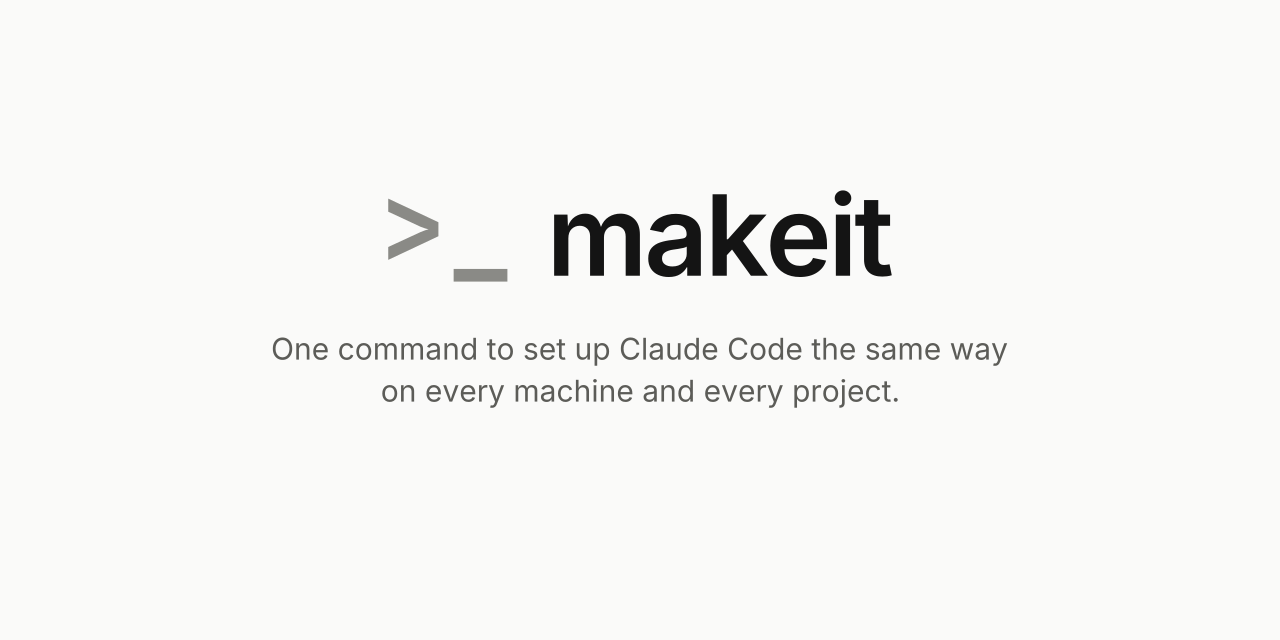
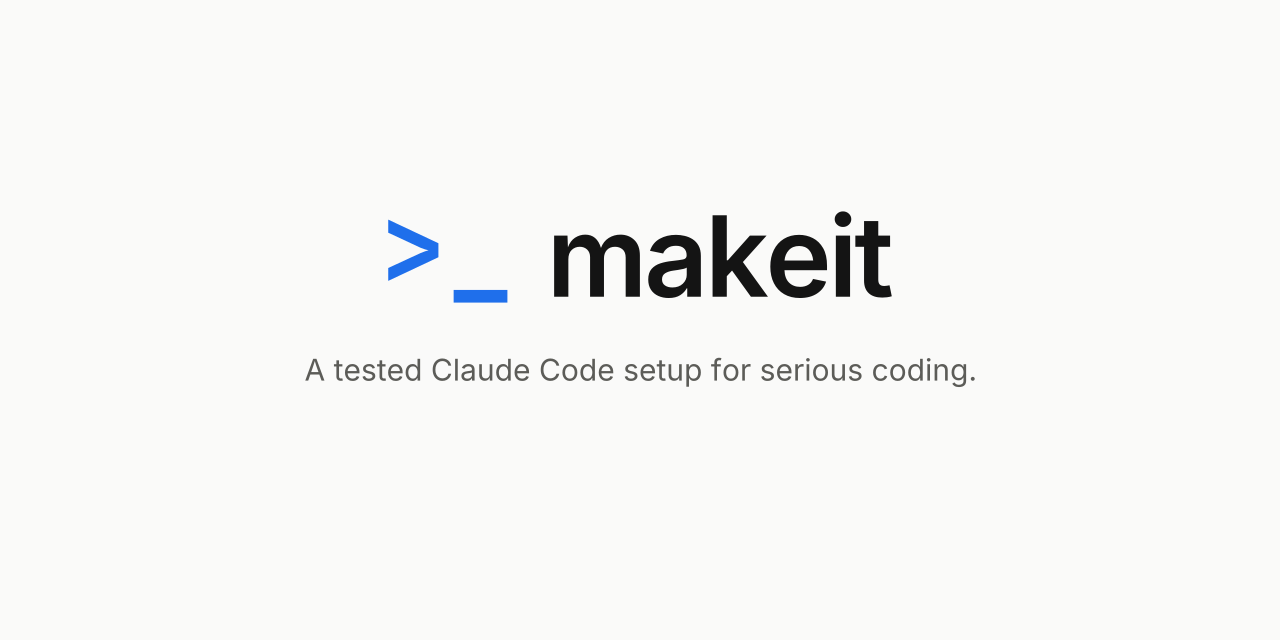
Pitch makeit as a tested setup and colour the prompt mark blue
The README leads with "A tested Claude Code setup for serious coding." and says
only what the records support: the core plugins were each tested against Claude
Code without them and against their alternatives, and the ones that lost were
dropped. docs/included.md gets a "tested" column per plugin, "not yet" for the
security-audit and language-server plugins. The >_ mark is #1f6feb on light and
#4d8ef7 on dark in both logos, the mark and the social preview.

Changed region(s): [[0.2812, 0.2812, 0.7188, 0.5], [0.2188, 0.5312, 0.7812, 0.625]]

diff --git a/docs/included.md b/docs/included.md
@@ -49,29 +49,31 @@ at a pinned commit. setup copies it to `~/.makeit/catalog`, adds it as a marketp
 Anthropic's `claude-plugins-official` marketplace, and installs the `makeit-bundle` plugin. The
 bundle has no content of its own: installing it installs these plugins.
 
-| plugin | version | what it does |
-|---|---|---|
-| makeit | 0.1.0 | makeit's own plugin: the MCP servers, hooks and skills below |
-| superpowers | 7.0.1 | skills for a working method: brainstorming, plans, test-driven development, debugging, code review |
-| ponytail | 5.3.2 | keeps changes small: the smallest complete change, no code nobody asked for; set to level `full` |
-| chrome-devtools-mcp | 1.12.0 | the browser skills of chrome-devtools-mcp (the server itself runs from the makeit plugin) |
-| docs-mcp-server | 3.4.1 | the docs-search and docs-manage skills (the server itself runs from the makeit plugin) |
-| deja-vu | 0.23.1 | searches your past coding sessions on this machine; needs the `deja` binary |
-| security-audit | commit `c1c8a8c` | a full security audit of a codebase on request, beside Claude Code's `/security-review` |
-| typescript-lsp | from claude-plugins-official | TypeScript and JavaScript language server |
-| pyright-lsp | from claude-plugins-official | Python language server |
-| rust-analyzer-lsp | from claude-plugins-official | Rust language server |
-| gopls-lsp | from claude-plugins-official | Go language server |
+| plugin | version | what it does | tested |
+|---|---|---|---|
+| makeit | 0.1.0 | makeit's own plugin: the MCP servers, hooks and skills below | its own test suite |
+| superpowers | 7.0.1 | skills for a working method: brainstorming, plans, test-driven development, debugging, code review | yes: on 29 hard tasks run twice, 43 of 58 resolved against 38 without it, at lower cost; a tie on a second hard test |
+| ponytail | 5.3.2 | keeps changes small: the smallest complete change, no code nobody asked for; set to level `full` | yes: the cheapest and fastest option on the UI tasks, chosen over Caveman |
+| chrome-devtools-mcp | 1.12.0 | the browser skills of chrome-devtools-mcp (the server itself runs from the makeit plugin) | yes: compared with other browser tools; the only one with traces, Lighthouse and device emulation |
+| docs-mcp-server | 3.4.1 | the docs-search and docs-manage skills (the server itself runs from the makeit plugin) | yes: agents never searched docs on their own (0 calls in 6 runs), so makeit indexes your dependencies and reminds them |
+| deja-vu | 0.23.1 | searches your past coding sessions on this machine; needs the `deja` binary | yes: recalled an earlier decision every time, never without it |
+| security-audit | commit `c1c8a8c` | a full security audit of a codebase on request, beside Claude Code's `/security-review` | not yet |
+| typescript-lsp | from claude-plugins-official | TypeScript and JavaScript language server | not yet |
+| pyright-lsp | from claude-plugins-official | Python language server | not yet |
+| rust-analyzer-lsp | from claude-plugins-official | Rust language server | not yet |
+| gopls-lsp | from claude-plugins-official | Go language server | not yet |
+
+Parts that were tested and lost were left out, among them Caveman, Laya and hallmark.
 
 The four language server plugins come from `claude-plugins-official` and update with it. Each
 language server plugin needs its server program on `PATH` (the optional prerequisite rows above).
 
 One more bundle is enabled per project, not per machine:
 
-| plugin | version | what it does |
-|---|---|---|
-| makeit-ui | 0.1.0 | a bundle for projects with a web frontend: it installs impeccable |
-| impeccable | 4.8.0 | design skills for user interfaces |
+| plugin | version | what it does | tested |
+|---|---|---|---|
+| makeit-ui | 0.1.0 | a bundle for projects with a web frontend: it installs impeccable | |
+| impeccable | 4.8.0 | design skills for user interfaces | yes: won every blind comparison against seven other design skills |
 
 `makeit init` enables `makeit-ui` in a project's `.claude/settings.json` when it finds a web
 frontend. See [Projects](projects.md).

diff --git a/README.md b/README.md
@@ -5,7 +5,11 @@
   </picture>
 </p>
 
-<p align="center">One command to set up Claude Code the same way on every machine and every project.</p>
+<p align="center">A tested Claude Code setup for serious coding.</p>
+
+The core plugins in makeit were each tested against Claude Code without them and against their
+alternatives; the ones that lost were dropped. One command installs it, on every machine and every
+project. [What was tested](docs/included.md#the-plugin-set).
 
 <p align="center">
   <a href="https://github.com/youssefKadaouiAbbassi/make-it/releases/latest"><img alt="release" src="https://img.shields.io/github/v/release/youssefKadaouiAbbassi/make-it?color=555"></a>
@@ -38,7 +42,7 @@ ok Merge makeit's settings into /home/dev/.claude/settings.json
 
 ## Highlights
 
-- Installs Claude Code, a tested set of plugins, settings and global rules in one step.
+- A tested set of plugins, settings and global rules for Claude Code, installed in one step.
 - Sets up any project for Claude: CLAUDE.md, check commands, git hooks and CI, with `/makeit:init`
   inside Claude Code.
 - Every change is shown as a plan first; `--dry-run` writes nothing.
